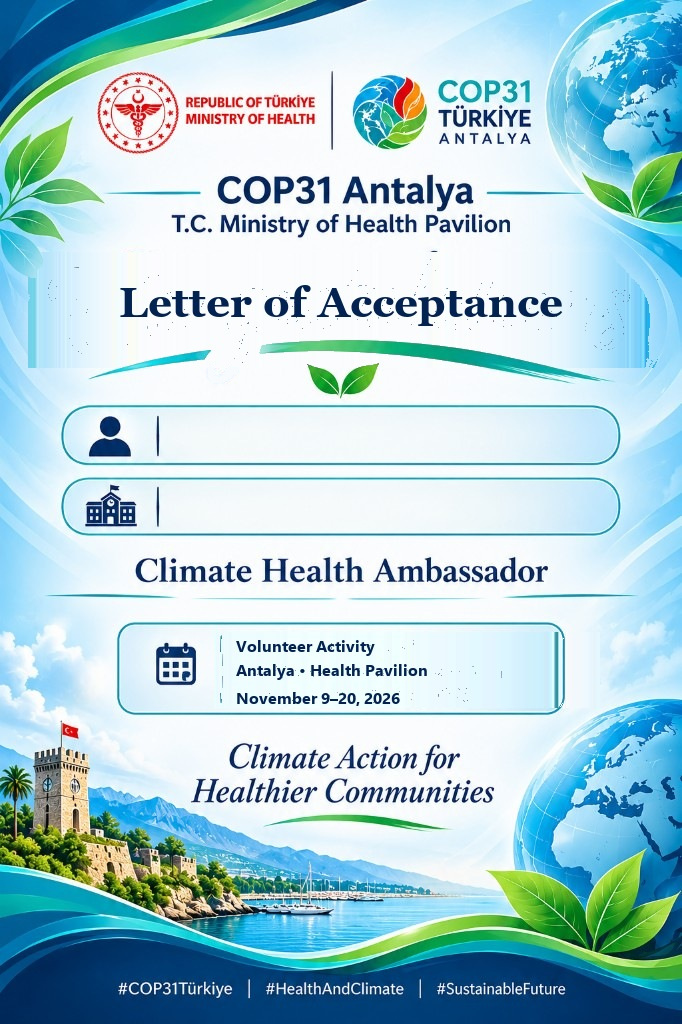
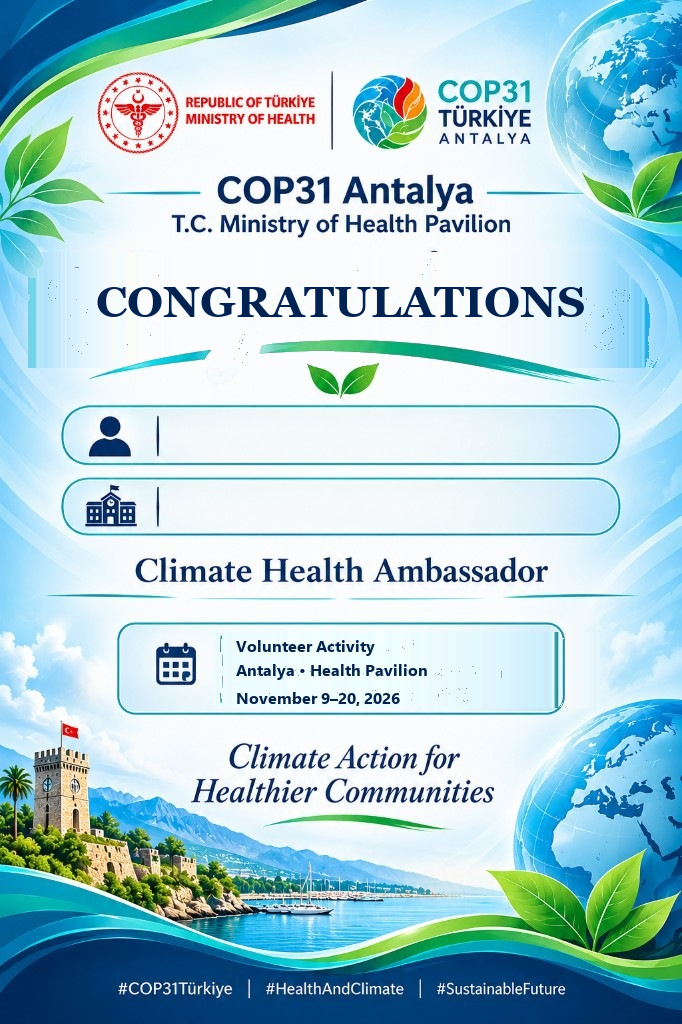
Kart basligini buyuk harfle TEBRIKLER ve CONGRATULATIONS yap.

Changed region(s): [[0.1232, 0.2812, 0.8622, 0.3125]]

diff --git a/src/components/ambassador/AcceptanceCard.tsx b/src/components/ambassador/AcceptanceCard.tsx
@@ -56,7 +56,7 @@ export function AcceptanceCard({ name, school, city }: { name: string; school: s
     setNote("");
     const blob = await (await fetch(jpeg)).blob();
     const file = new File([blob], cardFileName(name), { type: "image/jpeg" });
-    const payload: ShareData = { title: english ? "Letter of acceptance" : "Kabul belgesi", text: `${caption}\n${pageUrl}`, files: [file] };
+    const payload: ShareData = { title: english ? "CONGRATULATIONS" : "TEBRİKLER", text: `${caption}\n${pageUrl}`, files: [file] };
     if (navigator.share && (!navigator.canShare || navigator.canShare({ files: [file] }))) {
       try {
         await navigator.share(payload);
@@ -82,7 +82,7 @@ export function AcceptanceCard({ name, school, city }: { name: string; school: s
       <div className="mx-auto max-w-[440px] space-y-4">
         <div className="text-center">
           <p className="text-xs font-bold tracking-[0.22em] text-[#0077C2]">COP31 TÜRKİYE · ANTALYA</p>
-          <h1 className="display text-4xl mt-1">{english ? "Letter of acceptance" : "Kabul belgesi"}</h1>
+          <h1 className="display text-4xl mt-1">{english ? "CONGRATULATIONS" : "TEBRİKLER"}</h1>
           <p className="text-sm text-[#3E6A88] mt-1">
             {english
               ? "Your name and school are written on the card. Download the JPG and share it."
@@ -91,7 +91,7 @@ export function AcceptanceCard({ name, school, city }: { name: string; school: s
         </div>
         {error ? <p className="text-sm text-[#E31C23] text-center">{error}</p> : null}
         {jpeg ? (
-          <img src={jpeg} alt={`${name} İklim Sağlık Elçisi kabul kartı`} className="w-full border border-[#B5DFF2] bg-white" />
+          <img src={jpeg} alt={english ? `${name} Climate Health Ambassador card` : `${name} İklim Sağlık Elçisi tebrik kartı`} className="w-full border border-[#B5DFF2] bg-white" />
         ) : (
           <div className="aspect-[1131/1600] border border-[#B5DFF2] bg-white grid place-items-center text-sm text-[#3E6A88]">
             {error ? "" : "Kart hazırlanıyor…"}

diff --git a/src/app/elci/kart/[id]/page.tsx b/src/app/elci/kart/[id]/page.tsx
@@ -21,7 +21,7 @@ export async function generateMetadata({ params }: { params: Promise<{ id: strin
   const title = app ? `${app.fullName} · İklim Sağlık Elçisi` : "İklim Sağlık Elçisi";
   return {
     title,
-    description: "COP31 Türkiye Sağlık Bakanlığı İklim Sağlık Elçisi kabul kartı. Antalya, 9–20 Kasım 2026.",
+    description: "COP31 Türkiye Sağlık Bakanlığı İklim Sağlık Elçisi tebrik kartı. Antalya, 9–20 Kasım 2026.",
   };
 }
 
@@ -33,7 +33,7 @@ export default async function AmbassadorCardPage({ params }: { params: Promise<{
       <main className="min-h-screen bg-[#EEF8FD] text-[#0B1C33] grid place-items-center px-6">
         <div className="max-w-md text-center space-y-3">
           <p className="text-xs font-bold tracking-[0.22em] text-[#0077C2]">COP31 TÜRKİYE</p>
-          <h1 className="display text-4xl">Kabul belgesi henüz açılmadı</h1>
+          <h1 className="display text-4xl">Tebrik kartı henüz açılmadı</h1>
           <p className="text-[#3E6A88]">
             Kart, başvurunuz kabul edildikten sonra e-postadaki bağlantıyla açılır. Karar bu adrese ayrıca yazılır.
           </p>
